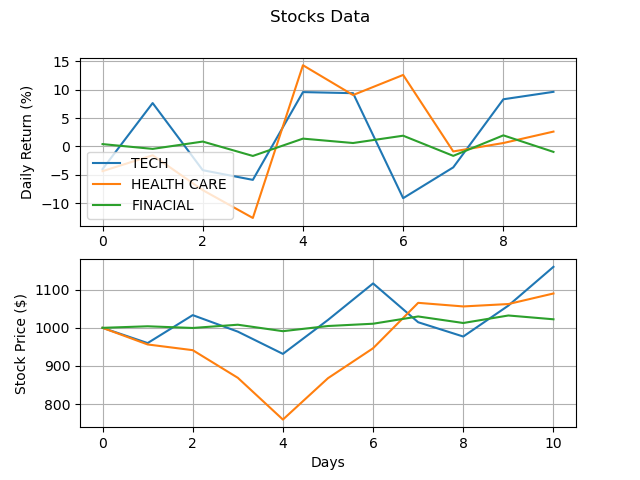
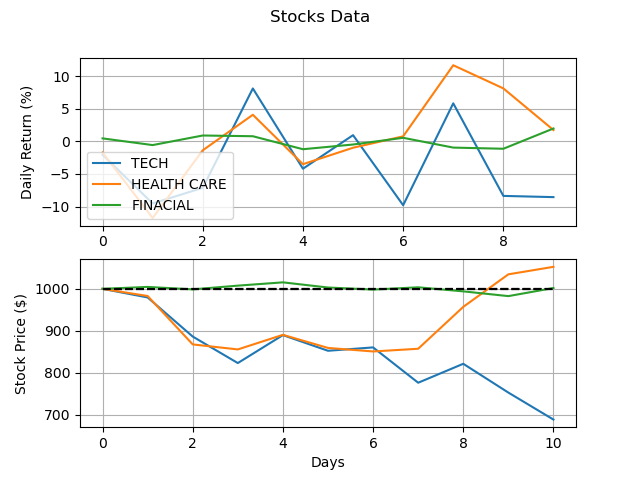
Finished first approach: fixed volatility

diff --git a/src.py b/src.py
@@ -34,11 +34,11 @@ def plot_graph_from_dataframe(df, days_of_data):
         axs[0].set_ylabel('Daily Return (%)')
         axs[0].legend(df.columns, loc=3)
 
-        y_stock_price = [1000]
+        y_stock_price = [10]
         for i, daily_return in enumerate(y_daily_return):
             y_stock_price.append(y_stock_price[i] * (1+daily_return/100))
         axs[1].plot(x_stock_price, y_stock_price)
-        axs[1].plot(x_stock_price, [1000]*len(x_stock_price), 'k--')
+        axs[1].plot(x_stock_price, [10]*len(x_stock_price), 'k--')
         axs[1].grid()
         axs[1].set_xlabel('Days')
         axs[1].set_ylabel('Stock Price ($)')
@@ -46,7 +46,7 @@ def plot_graph_from_dataframe(df, days_of_data):
     fig.savefig(f'output/Sample-{len(df.columns)}stocks-{days_of_data}days.png')
 
 if __name__ == "__main__":
-    # To grants reprodutibility
+    # To grants code reproducibility
     np.random.seed(0)
 
     create_directory('output')
@@ -54,11 +54,11 @@ if __name__ == "__main__":
     stock_names = ['TECH', 'HEALTH CARE','FINACIAL']
     volatility  = [0.10, 0.15, 0.02]
 
-    days_of_data = 100  # (365 days * 10 years) of data
+    days_of_data = 365  # (365 days * 10 years) of data
     df = pd.DataFrame({'Placeholder': [0]*days_of_data})
 
     for k, stock_name in enumerate(stock_names):
-        stock_price = 1000
+        stock_price = 10
         df[stock_name] = pd.Series([], dtype=np.float64)
         for i in range(days_of_data): 
             stock_price, daily_return = get_daily_return_value(stock_price, volatility[k])
